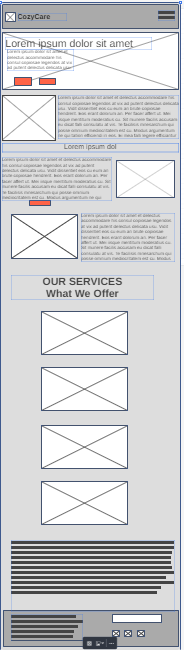
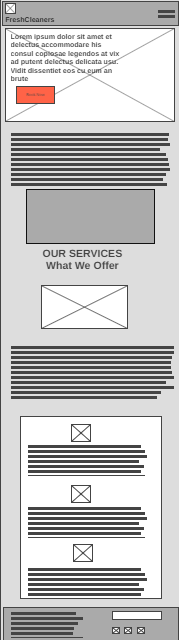
dfsd

diff --git a/carebuddies/siteplan.html b/carebuddies/siteplan.html
@@ -34,7 +34,7 @@
         <h1>Branding</h1>
         <h3>Website Logo</h3>
         <!-- Replace this with some sort of logo for your site.  A logo can be as simple as the name of your site in a nice font :) -->
-        <img src="images/carebuddies.png " class="logo" alt="Logo image for fresh cleaners">
+        <img src="images/logo.png " class="logo" alt="Logo image for fresh cleaners">
         <br>
         <hr>
         <h1>Style Guide</h1>
@@ -87,7 +87,7 @@
         <nav>
             <a href="index.html">Home</a>
             <a href="sitters.html">Sitters</a>
-            <a href="booking.html">Book Now</a>
+            <a href="bookings.html">bookings</a>
             <a href="contact.html">Contact Us</a>
         </nav>
         <hr>
@@ -98,9 +98,8 @@
                 Sitters
 
             </div>
-            <div class="sm-page3">Book Now</div>
+            <div class="sm-page3">Bookings</div>
             <div class="sm-page4">Contact Us</div>
-
             <div class="top">&nbsp;</div>
             <div class="left">&nbsp;</div>
             <div class="right">&nbsp;</div>
@@ -118,12 +117,12 @@
         <img src="images/large.png" alt="Wireframe images">
         <hr>
         images
-        <img src="images/5f3b9a7db2e7bf0021467275.svg" alt="">
-        <img src="images/6013dd754bec700021db6ae7.svg" alt="">
         <img src="images/abstract-colorful-geometric-shape-background-modern-color-background-for-your-website-vector.jpg" alt="">
-        <img src="images/istockphoto-1404446360-612x612.jpg" alt="">
-        <img src="images/5c1b139231b7986478577f47_Circle-Image1@2x-p-800.png" alt="">
-
+        <img src="images/abacus.jpg" alt="">
+        <img src="images/baby-carrier.jpg"" alt="">
+        <img src="images/blessing.jpg" alt="">
+        <img src="images/business-meeting.jpeg" alt="">
+        <img src="images/angela.jpg" alt="">
     </main>
 </body>
 
